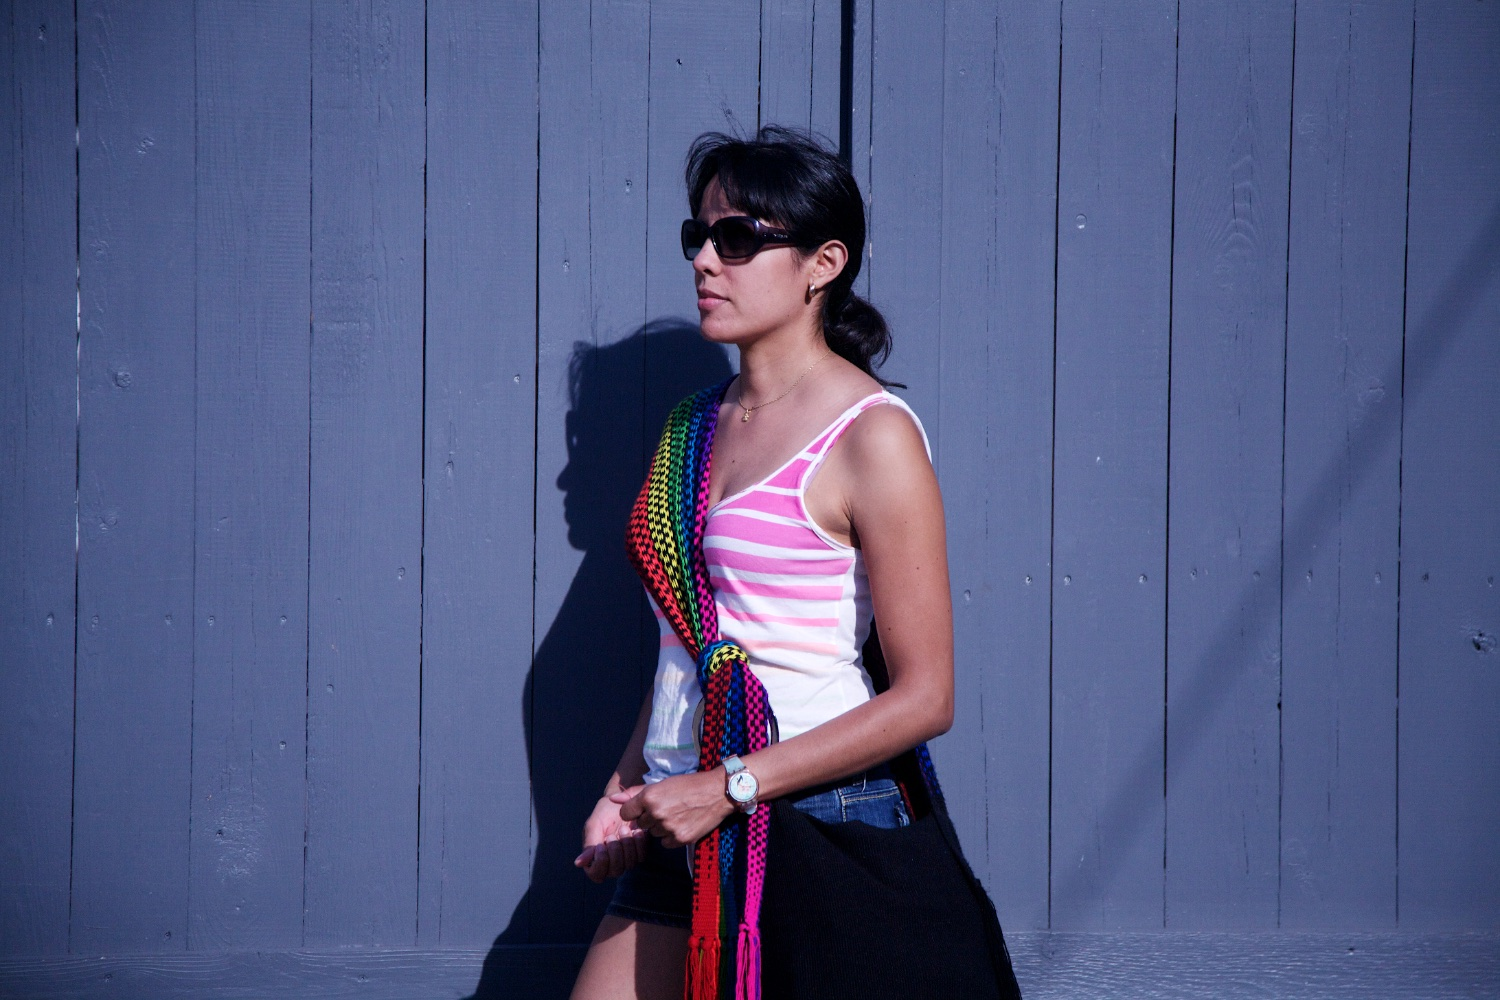
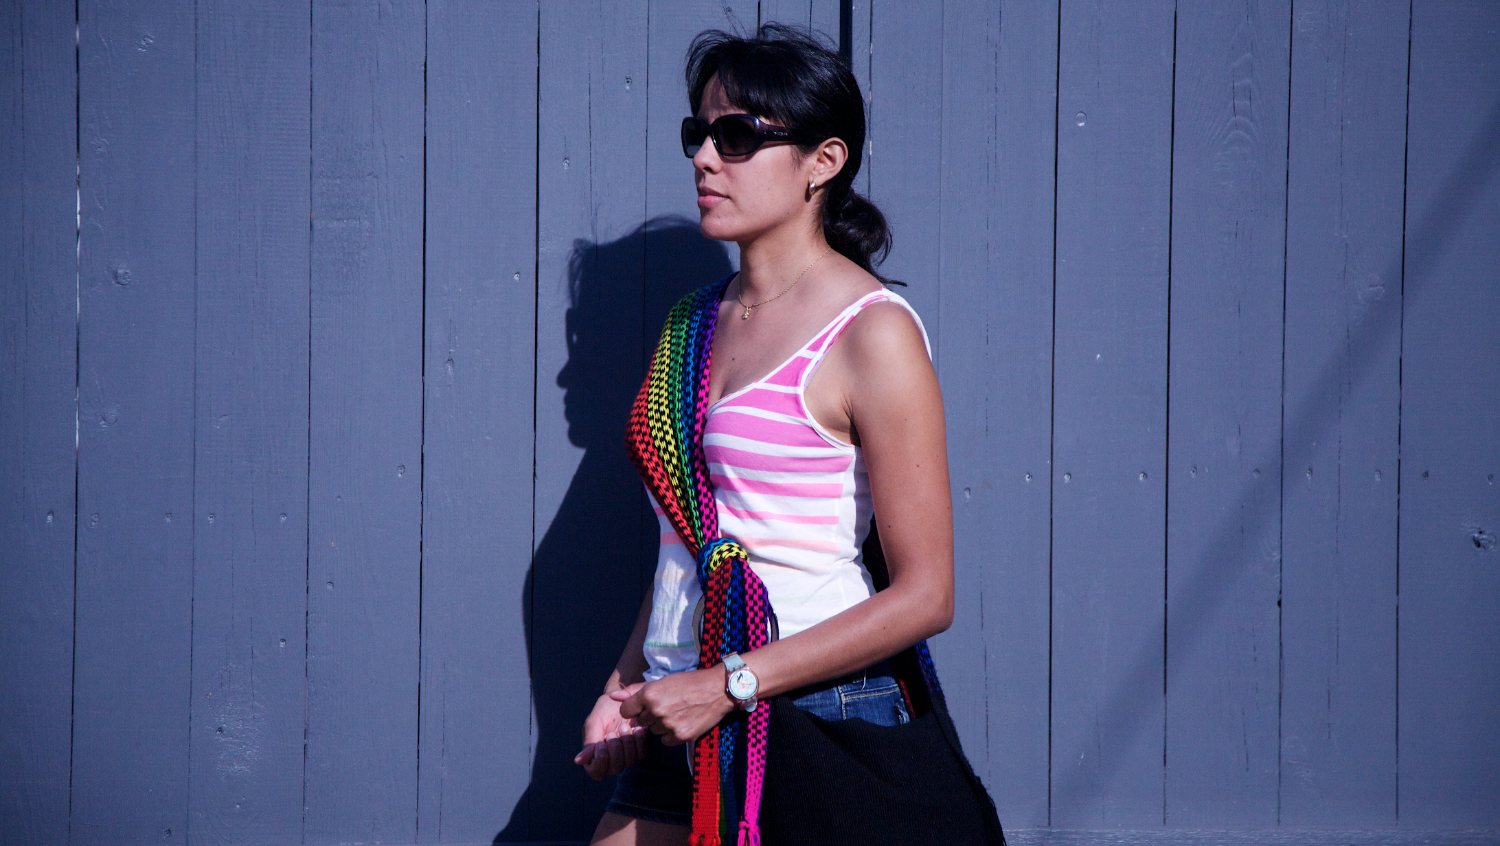
v. 0.1

diff --git a/css/style.css b/css/style.css
@@ -101,14 +101,12 @@
     position: absolute;
     z-index: -2;
     box-sizing: border-box;
-    padding-left: 40px;
-    padding-right: 40px;
-    left: 0px;
-    top: 0px;
+   
+   
     width: 100%; height: auto;
   }
  
-.responsiveImage {width: 100%; height: auto;}
+.responsiveImage {width: 100%;  height: auto; box-sizing: border-box; padding: 2%;background: white;}
  
      
   
@@ -119,7 +117,7 @@
   font-family: 'Montserrat', sans-serif;
   text-align: right;
   position: absolute;
-  width: 480px;
+  width: 40%;
   top: 370px;
   right: 40px;
   z-index: 1;
@@ -153,45 +151,6 @@
    top: 800px;
   }    
 
-  
- 
-
-  .subtitulo-code {
-    text-align: justify;
-    font-family: 'Roboto Mono', monospace;
-    background-color: rgb(51, 50, 50);    
-    margin-top: 90px; 
-    padding-left: 2%;
-    padding-right: 2%;
-    margin-bottom: 10px;
-    color: rgb(9, 247, 29);
-    line-height: 1.5;
-    font-weight: 0;
-    font-style: normal;
-    font-size: 2rem;
-  }
-  
-
-  .subtitulo-h4 {  
-    color: black;
-    line-height: 1.1;
-    font-weight: 100;
-    font-style: normal;
-    font-size: 2.5rem;
-    box-sizing: border-box;
-  }
-  
-  .titulo-h3 {  
-    text-align: center;
-    padding: 10px;
-    font-weight: 100;
-    font-size: 1.7rem;  
-    color: white;
-    background-color: black;
-    height: 60px;
-  }
-  
- 
   
  
 
@@ -247,106 +206,77 @@
   
   @media (max-width:  1024px){
 
-    .contenedorBody {
+  nav { 
+    position: absolute;
+    background-color: brown;    
+    z-index: -1;
+      margin-left: 15px;
+      list-style: none;
+      float: left;
+      margin-top: 20px;
       box-sizing: border-box;
-      width: 100%;
-      margin: 0%;
-      padding: 0%;         
-    }
-      
-      
-      .paragrafo {
-        font-size: .50 rem;
-        font-weight: 300;
-        } 
-  
-.contenedorHeader {    
-        width: 100%;
-        position: fixed;
-        top: 0px;        
-        box-shadow:0 0 16px rgba(14, 0, 0, 0.3);
-        }
+      width: 100px;      
+    } 
 
-   .logo {  
-     width: 100%;
-     min-height: 60px;
-     box-sizing: border-box;
-        margin: 0%;
-        padding-top: 6px;
-        text-align: center;
-        color: rgb(12, 12, 11);
-        font-size: 2.3rem;
-        font-weight: 300;
-        background-color: black;
-        }             
-nav {
-  float: left;
-  width: 100%;
-  text-align: center;
-  margin-top: 0px;
-  display: flex;
-  flex-direction: column;
-  font-size: 1rem;
-  line-height: 2;
-  box-sizing: border-box;          
-  background-color:whitesmoke;} 
+    .titulosMain {
+      font-family: 'Montserrat', sans-serif;
+      text-align: center;      
+      margin-top: -40%;
+      width: 80%;
       
-
-    .contenedorMain {
-      width: 100%;
-      margin-top: 200px;      
-      box-sizing: border-box;           
-    }   
+      color:  black;
+      font-size: 1.5rem;
+      font-weight: 600;
+      padding: 30px;
+      }
     
+      .contenedorArticuloMain {color: rgb(58, 56, 56);
+        text-align: center;
+        width: 80%;
+        top: 340px;
+        right: 55px;
+        z-index: 3;
+        background-color: rgb(218, 213, 213);
+        line-height: 1.5;
+        padding: 5px; height: auto;}
+        
+    
+    .contenedorMain {
+        display: block;
+        position: relative;
+        width: 80%;    
+        margin-left: 200px;
+        margin-right: 200px;
+        clear: both;
+        box-sizing: border-box;
+        font-weight: 300;
+        font-style: normal;
+       top: 800px;
+      }    
+    
+      
+     
+    
+      .contenedorQueEsHexis {
+        float: left;
+        width: 50%;
+        box-sizing: border-box;
+        margin: 70px auto;
+      }
+      .cajaVideoHexis {width: 100%; height: auto; margin-top: 40%;}
+      .bannerFlotante {
+        float: right;
+        width: 45%;
+        box-sizing: border-box;
+        margin: 70px auto;
+      }
+    
+
     
   
     .cajaVideoHexis {width: 100%; margin-top: 5%;}
 
-    .subtitulo-code {
-      text-align: justify;
-      font-family: 'Roboto Mono', monospace;
-      background-color: rgb(51, 50, 50);    
-      margin-top: 90px; 
-      padding-left: 3%;
-      padding-right: 3%;
-      margin-bottom: -180px;
-      color: rgb(9, 247, 29);
-      line-height: 1.4;
-      font-weight: 100;
-      font-style: normal;
-      font-size: 1rem;
-    }    
-    .titulo-h3 {display: none;}
-    
-    .titulosMain {
-      margin-bottom: 1.5rem;
-      color:  rgb(14, 151, 241);
-      line-height: 1.1;
-      font-size: 2rem;
-      font-weight: 200;
-    }
-    
-    .contenedorSectionHexis {
-    display: flex;
-    width: 100%;
-    flex-direction: column; 
-    margin-top: -35px;
-    
-    }
-  
-    .contenedorQueEsHexis {
-      float: left;  
-      width: 90%;    
-      box-sizing: border-box;
-     margin: 5% auto;
-      
-    }
-    .bannerFlotante {
-      float: left;      
-      width: 90%;
-      box-sizing: border-box;
-      margin: 5% auto;
-          }
+   
 
           /*Convocatoria
   ====================================================================================================*/

diff --git a/index.html b/index.html
@@ -87,10 +87,13 @@
         </a>
       </nav>   
       <div  class="slogan">
-        <img src="imagenes5/portafolioEntrada (1).jpg"  class="responsiveImage" alt="hexis foto">
+        <img src="imagenes5/portafolioEntrada (4).jpg"  class="responsiveImage" alt="hexis foto">
       </div> 
   </header>
   
+  <main   itemscope itemtype="http://schema.org/Service">
+    >
+
 <article itemprop="serviceOutput" class="contenedorArticuloMain">
   <h2> </h2>
 
@@ -100,8 +103,8 @@
 
   </article>
 
-  <main itemscope itemtype="http://schema.org/Service"   class="contenedorMain">
-
+  
+  </main>
 
 
 
@@ -109,7 +112,7 @@
 
    
 
-      </main>
+      
     </div>
 
 
